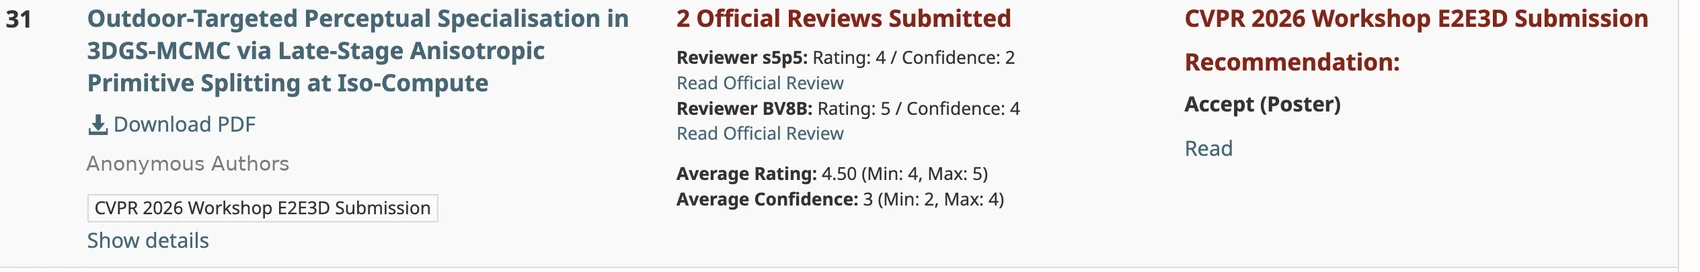
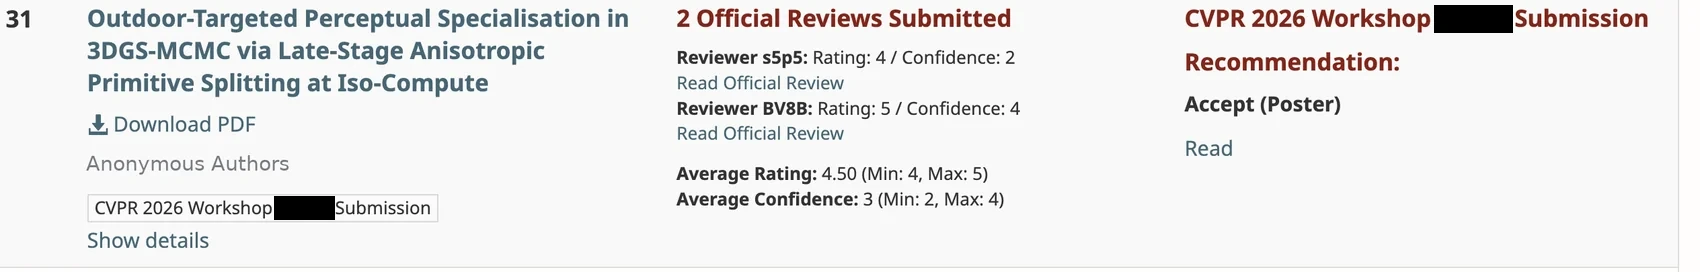
GS-Scientist page: black-box workshop name in OpenReview screenshots and drop it from page text

Changed region(s): [[0.8418, 0.0, 0.9041, 0.1471], [0.1559, 0.7059, 0.2182, 0.8235]]

diff --git a/gs-scientist/index.html b/gs-scientist/index.html
@@ -309,7 +309,7 @@ tailwind.config = {
       and revised without human editing. Click any card to read the full paper.
     </p>
     <div id="gallery" class="grid grid-cols-2 sm:grid-cols-3 lg:grid-cols-4 gap-4"></div>
-    <p class="text-xs text-slate-400 mt-3 text-center">Badges: <span class="text-emerald-600 font-medium">green</span> — accepted at the CVPR 2026 E2E3D workshop · <span class="text-rose-500 font-medium">red</span> — rejected · <span class="text-accent font-medium">indigo</span> — headline result of its run.</p>
+    <p class="text-xs text-slate-400 mt-3 text-center">Badges: <span class="text-emerald-600 font-medium">green</span> — accepted at the CVPR 2026 workshop · <span class="text-rose-500 font-medium">red</span> — rejected · <span class="text-accent font-medium">indigo</span> — headline result of its run.</p>
   </div>
 </section>
 
@@ -319,7 +319,7 @@ tailwind.config = {
     <p class="text-center text-xs font-semibold uppercase eyebrow text-accent mb-2">The reality check</p>
     <h2 class="font-serif text-3xl font-bold text-center mb-3">Real reviewers. Real decisions.</h2>
     <p class="text-center text-slate-600 max-w-3xl mx-auto mb-8">
-      Four fully-autonomous manuscripts were submitted to the <span class="font-semibold">CVPR 2026 Workshop on End-to-End 3D (E2E3D)</span>,
+      Four fully-autonomous manuscripts were submitted to a <span class="font-semibold">CVPR 2026 workshop</span>,
       following the submission protocol described in the paper (§4.6). Human reviewers scored them like any other submission.
       <span class="font-semibold text-ink">Three were accepted as posters; one was rejected.</span>
     </p>
